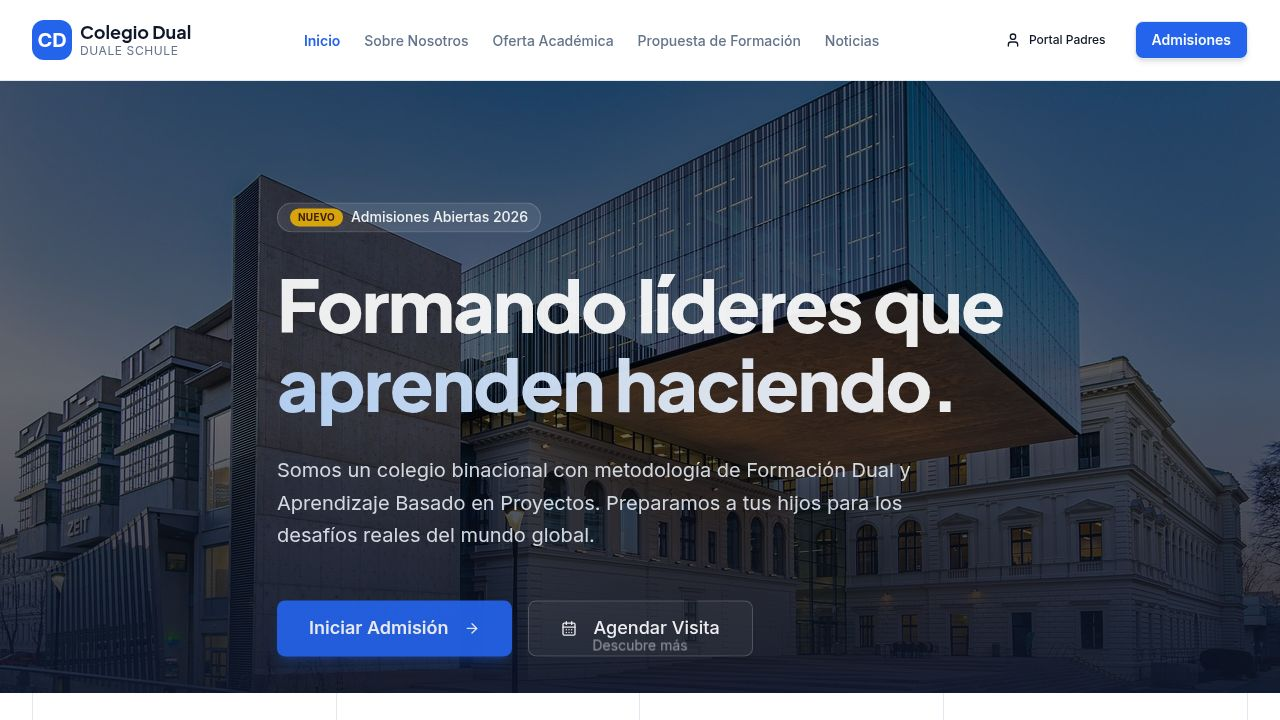
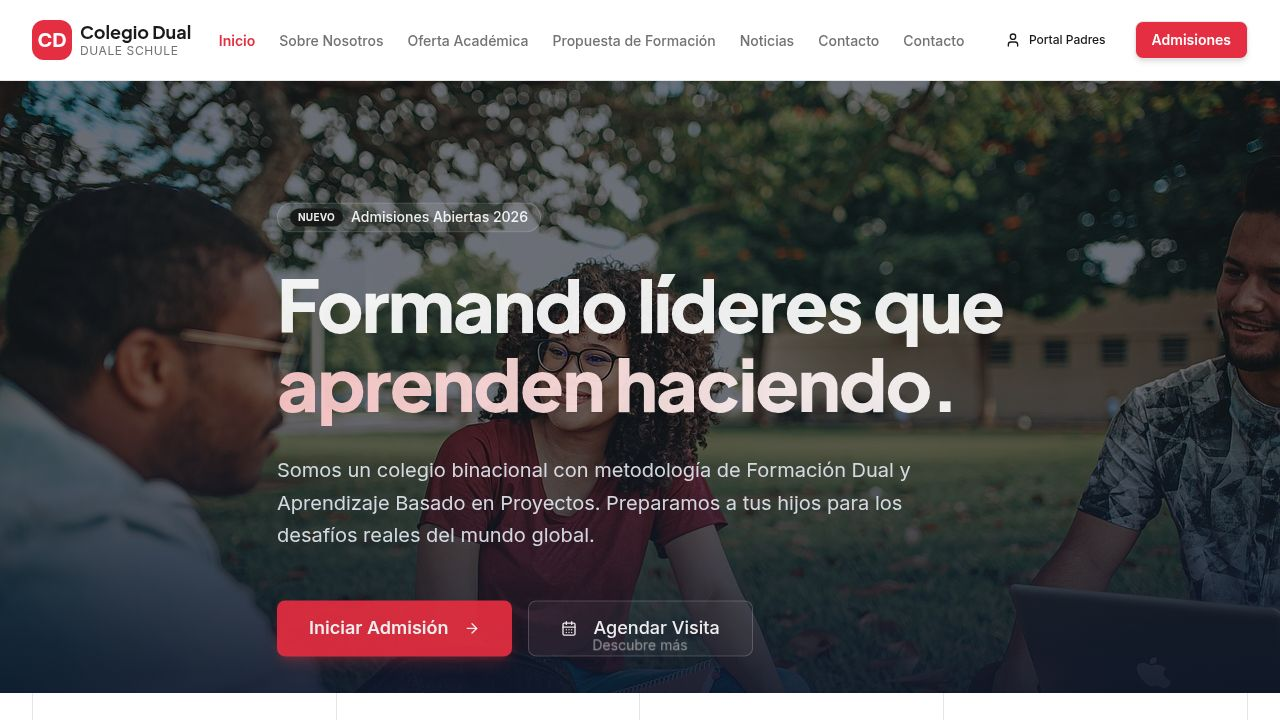
Add relevant images to all website sections
Update `client/src/lib/data.ts` and `client/src/pages/Contacto.tsx` to include new stock images for various sections, replacing previous placeholders. Also adds a static map image with a "View on Google Maps" overlay to the Contact page.

Replit-Commit-Author: Agent
Replit-Commit-Session-Id: 4d6eadc5-9f53-4fff-861d-00f6df512a3b
Replit-Commit-Checkpoint-Type: full_checkpoint
Replit-Commit-Event-Id: dfbd1f55-0f15-42c3-834a-a3555f9d2795
Replit-Commit-Screenshot-Url: https://storage.googleapis.com/screenshot-production-us-central1/3462a9b3-da65-476f-9ec2-aa25316a33b3/4d6eadc5-9f53-4fff-861d-00f6df512a3b/DzqDT4f
Replit-Helium-Checkpoint-Created: true

diff --git a/client/src/lib/data.ts b/client/src/lib/data.ts
@@ -1,11 +1,20 @@
 import { GraduationCap, BookOpen, Users, Briefcase, Award, Globe, Lightbulb, UserCheck } from "lucide-react";
 
+// Import images
+import egbImg from "@assets/stock_images/elementary_school_st_45052d20.jpg";
+import bachiImg from "@assets/stock_images/high_school_students_53df820d.jpg";
+import dualImg from "@assets/stock_images/student_apprentice_w_552611ae.jpg";
+import labImg from "@assets/stock_images/modern_high_school_s_f7d12c0d.jpg";
+import projectImg from "@assets/stock_images/students_presenting__043045f9.jpg";
+import admissionImg from "@assets/stock_images/friendly_school_admi_8823d227.jpg";
+
 export const NAV_LINKS = [
   { label: "Inicio", href: "/" },
   { label: "Sobre Nosotros", href: "/sobre-nosotros" },
   { label: "Oferta Académica", href: "/oferta-academica" },
   { label: "Propuesta de Formación", href: "/propuesta" },
   { label: "Noticias", href: "/noticias" },
+  { label: "Contacto", href: "/contacto" },
 ];
 
 export const ACADEMIC_OFFER = [
@@ -14,7 +23,7 @@ export const ACADEMIC_OFFER = [
     title: "Educación General Básica",
     description: "Formación integral desde los primeros años, fomentando la curiosidad y el aprendizaje activo.",
     icon: BookOpen,
-    image: "https://images.unsplash.com/photo-1503676260728-1c00da094a0b?auto=format&fit=crop&q=80",
+    image: egbImg,
     link: "/oferta-academica#egb"
   },
   {
@@ -22,7 +31,7 @@ export const ACADEMIC_OFFER = [
     title: "Bachillerato",
     description: "Preparación académica rigurosa con enfoque en ciencias y humanidades para el ingreso universitario.",
     icon: GraduationCap,
-    image: "https://images.unsplash.com/photo-1523050854058-8df90110c9f1?auto=format&fit=crop&q=80",
+    image: bachiImg,
     link: "/oferta-academica#bachillerato"
   },
   {
@@ -30,7 +39,7 @@ export const ACADEMIC_OFFER = [
     title: "Formación Dual",
     description: "Aprende haciendo. Combina teoría en el aula con práctica real en empresas asociadas.",
     icon: Briefcase,
-    image: "https://images.unsplash.com/photo-1581091226825-a6a2a5aee158?auto=format&fit=crop&q=80",
+    image: dualImg,
     link: "/propuesta#dual"
   }
 ];
@@ -71,20 +80,20 @@ export const NEWS_HIGHLIGHTS = [
     title: "Inauguración del nuevo laboratorio de ciencias",
     date: "15 Ene, 2026",
     category: "Institucional",
-    image: "https://images.unsplash.com/photo-1532094349884-543bc11b234d?auto=format&fit=crop&q=80"
+    image: labImg
   },
   {
     id: 2,
     title: "Estudiantes de bachillerato presentan proyectos finales",
     date: "10 Dic, 2025",
     category: "Académico",
-    image: "https://images.unsplash.com/photo-1517486808906-6ca8b3f04846?auto=format&fit=crop&q=80"
+    image: projectImg
   },
   {
     id: 3,
     title: "Abiertas las inscripciones para el periodo 2026-2027",
     date: "01 Nov, 2025",
     category: "Admisiones",
-    image: "https://images.unsplash.com/photo-1524178232363-1fb2b075b655?auto=format&fit=crop&q=80"
+    image: admissionImg
   }
 ];

diff --git a/client/src/pages/Contacto.tsx b/client/src/pages/Contacto.tsx
@@ -13,6 +13,8 @@ import { useToast } from "@/hooks/use-toast";
 import { MapPin, Phone, Mail, Clock } from "lucide-react";
 import contactBg from "@assets/stock_images/teacher_explaining_t_f58b2194.jpg";
 
+import mapBg from "@assets/stock_images/overhead_map_view_of_dc2b3a3a.jpg";
+
 const formSchema = z.object({
   name: z.string().min(2, "El nombre debe tener al menos 2 caracteres."),
   email: z.string().email("Por favor ingrese un correo válido."),
@@ -105,9 +107,17 @@ export function Contacto() {
               </div>
 
               {/* Map Placeholder */}
-              <div className="h-64 bg-slate-200 rounded-xl overflow-hidden relative">
-                 <div className="absolute inset-0 flex items-center justify-center text-slate-500 font-medium">
-                   Mapa de Google Maps
+              <div className="h-64 bg-slate-200 rounded-xl overflow-hidden relative shadow-md">
+                 <img 
+                   src={mapBg} 
+                   alt="Ubicación en mapa" 
+                   className="w-full h-full object-cover"
+                 />
+                 <div className="absolute inset-0 flex items-center justify-center pointer-events-none">
+                   <div className="bg-white/90 backdrop-blur-sm px-4 py-2 rounded-lg shadow-lg text-primary font-bold text-sm flex items-center gap-2">
+                     <MapPin className="h-4 w-4" />
+                     Ver en Google Maps
+                   </div>
                  </div>
               </div>
             </div>
